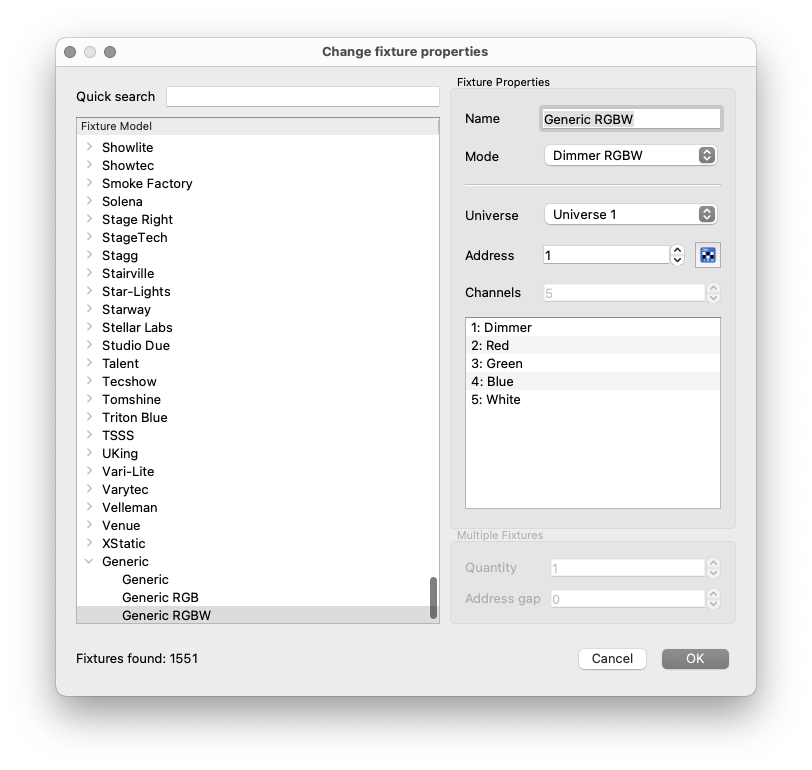
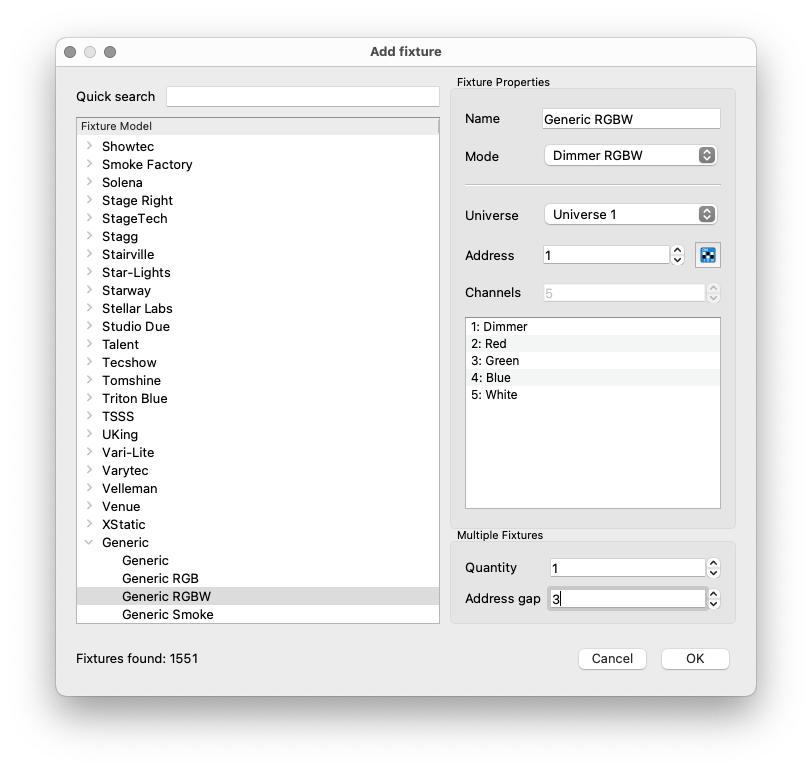
+ doc

diff --git a/activites/lx_midi_map/README.md b/activites/lx_midi_map/README.md
@@ -7,7 +7,6 @@
 #### Drivers Midi Virtuel
 
 * Utiliser [loopmidi](https://www.tobias-erichsen.de/software/loopmidi.html)
-
 * Démarrer loop midi 
 
 
@@ -15,8 +14,28 @@
 
 * [Plugdata](https://plugdata.org/)
 
+#### Configuration MIDI plugdata 
 
-### Config 
+
+![alt text](image-5.png)
+
+* réglage (menu hamburger)
+
+![alt text](image-3.png)
+
+* output Loopmidi (sur pc ) ou plugdata (sur mac)
+![alt text](image-4.png)
+
+#### Lien vers des patchs PlugData
+
+[Patch Plugdata LFO](https://raw.githubusercontent.com/tim-montmorency/582513-conception/main/activites/lx_midi_map/plugdata-lfo-ctl.pd.zip) 
+
+[Patch Plugdata Analyse](https://raw.githubusercontent.com/tim-montmorency/582513-conception/main/activites/lx_midi_map/analyse_audio.pd.zip) 
+
+
+
+
+### Configuration QLC 
 
 #### Entrée midi
 
@@ -26,17 +45,33 @@
 
 ![alt text](image-1.png)
 
-#### github absolue
-
-[Patch Plugdata LFO](https://raw.githubusercontent.com/tim-montmorency/582513-conception/main/activites/lx_midi_map/plugdata-lfo-ctl.pd.zip) 
-
-[Patch Plugdata Analyse](https://raw.githubusercontent.com/tim-montmorency/582513-conception/main/activites/lx_midi_map/analyse_audio.pd.zip) 
-
 
 ### Reaper
 
+Créer des courbe d'automation MIDI et les envoyer à QLC
 
-Via midi (CC)
+#### Créer un élément MIDI 
 
+![alt text](image-6.png)
 
+![alt text](image-7.png)
 
+#### Double cliquer l'élément midi pour éditer
+
+![alt text](image-8.png)
+
+#### Ajouter des piste de CC via le petit +
+
+![alt text](image-9.png)
+
+#### Dessiner des courbes expressives
+
+![alt text](image-10.png)
+
+#### Via le bouton *Route*
+
+![alt text](image-11.png)
+
+#### Sélectionner un *Midi Hardware output* sortie midi 
+
+![alt text](image-12.png)

diff --git a/contenus/1_lumieres/lampes/README.md b/contenus/1_lumieres/lampes/README.md
@@ -1,9 +1,6 @@
-# Lampe Disponible
+# Lampes disponibles
 
 ## Lampes Couleurs
-
-### 5p
-
 
 ### Eyourlife
 
@@ -11,4 +8,21 @@
 
 #### Définition dans QLC
 
-![Eyourlife QLC ](./Eyourlife_fixture_QLC.png))
+* Generic Dimmer RGBW
+* 3 adresses d'espacement
+![Eyourlife_fixture_QLC](Eyourlife_fixture_QLC.png)
+
+
+
+## Lampes monochromes
+
+### Elypsoidale eve-e-100z
+
+![eve-e-100z](eve-e-100z.jpg)
+
+#### Définition dans QLC+
+
+* Generic Dimmer 1 ch
+* 2 adresses d'espacement
+
+![Définition de la lampe ellipsoïdale dans QLC](elypsoidale_QLC.png)
